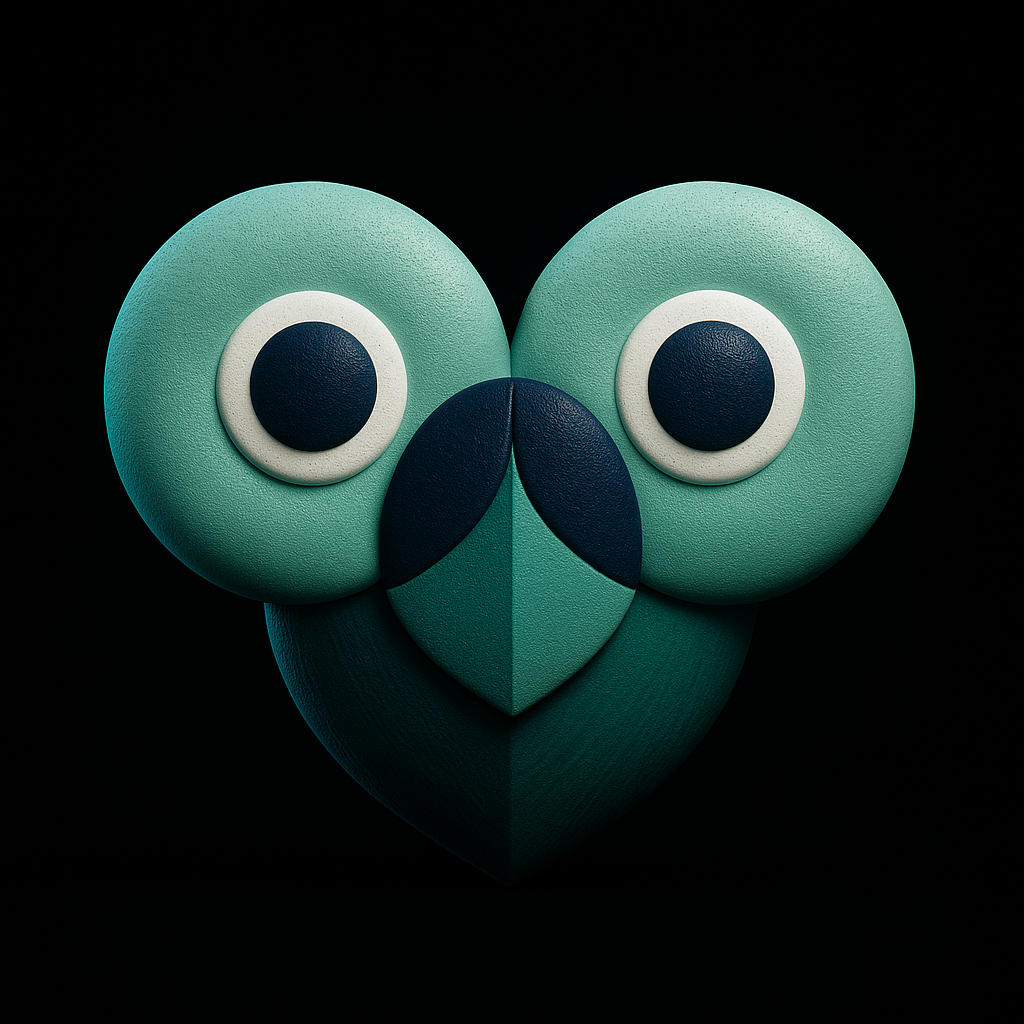
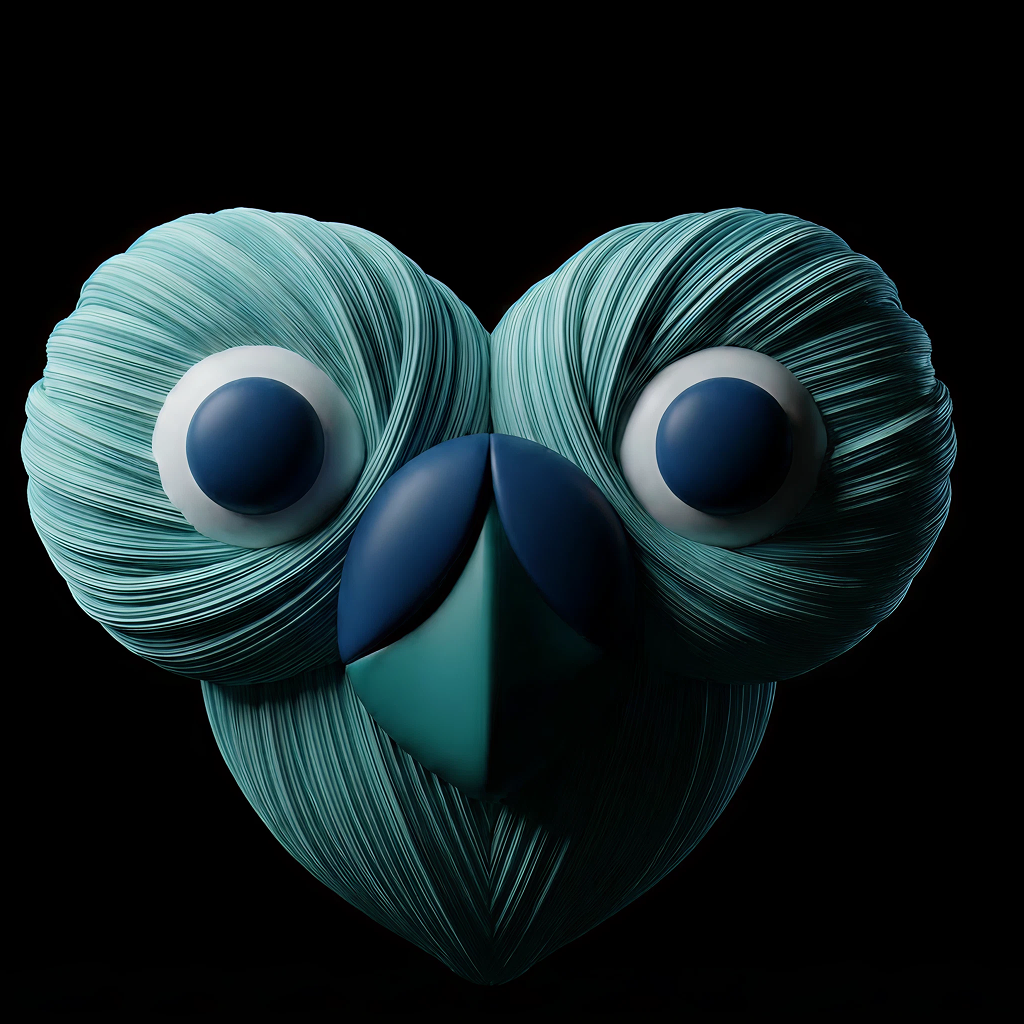
style: improved assets

diff --git a/src/data/projects.ts b/src/data/projects.ts
@@ -28,6 +28,9 @@ export const PROJECTS: Project[] = [
     tagline: "AI-Powered Relationship Intelligence Platform",
     kind: "Product",
     gradient: "from-emerald-500 to-teal-600",
+    imageSrc: "/grove-3d-render-1.png",
+    logoSrc: "/logo-grove.png",
+
     href: "https://grove-connections.lovable.app/landing",
     caseStudy: {
       summary:
@@ -108,7 +111,7 @@ export const PROJECTS: Project[] = [
         {
           title: "Natural Language Meal Parsing",
           description:
-            "Users needed to log meals in plain language (e.g. \"a bowl of rice with grilled chicken and a side salad\") and get accurate calorie breakdowns. The AI had to handle ambiguous quantities, regional food names, and compound dishes without frustrating the user with follow-up questions.",
+            'Users needed to log meals in plain language (e.g. "a bowl of rice with grilled chicken and a side salad") and get accurate calorie breakdowns. The AI had to handle ambiguous quantities, regional food names, and compound dishes without frustrating the user with follow-up questions.',
           approach:
             "Designed a multi-pass parsing pipeline: the first pass extracts individual food items and inferred portions using an LLM prompt tuned with few-shot examples, and the second pass maps each item to a nutrition database for macronutrient values. A confidence score determines whether to auto-log or ask the user for clarification, keeping the interaction smooth for common cases.",
         },
@@ -143,7 +146,7 @@ export const PROJECTS: Project[] = [
         {
           title: "AI Tool Calls for Database Manipulation",
           description:
-            "Users needed to create, edit, and delete meal records and profile data entirely through natural conversation. Telling the AI \"actually that was a small coffee, not a large\" or \"log a banana for yesterday's breakfast\" required the model to understand intent and translate it into precise database operations — without exposing raw CRUD endpoints to the user.",
+            'Users needed to create, edit, and delete meal records and profile data entirely through natural conversation. Telling the AI "actually that was a small coffee, not a large" or "log a banana for yesterday\'s breakfast" required the model to understand intent and translate it into precise database operations — without exposing raw CRUD endpoints to the user.',
           approach:
             "Leveraged the OpenAI function-calling (tool use) API to define a set of structured tools the LLM can invoke: create_meal_record, update_meal_record, delete_meal_record, and update_user_profile. Each tool has a strict JSON schema that the model must satisfy. When the model decides an action is needed, it emits a tool call with the structured parameters; the backend validates the payload, enforces ownership checks, executes the database operation, and returns the result to the model so it can confirm the change to the user in natural language. This keeps the AI in the driver's seat for UX while the backend retains full control over data integrity and authorization.",
         },
@@ -190,7 +193,7 @@ export const PROJECTS: Project[] = [
           description:
             "The non-profit had volunteers across multiple time zones. Meetings created in one timezone needed to display correctly for everyone, and daylight saving transitions caused edge cases where events would shift by an hour.",
           approach:
-            "Stored all event times in UTC in the database and performed timezone conversion exclusively on the client side using the user's local timezone. For recurring events, the recurrence rule stores the original local time and timezone, and each instance is computed in that timezone before converting to UTC — ensuring that a \"9 AM every Monday\" meeting stays at 9 AM local time even across DST boundaries.",
+            'Stored all event times in UTC in the database and performed timezone conversion exclusively on the client side using the user\'s local timezone. For recurring events, the recurrence rule stores the original local time and timezone, and each instance is computed in that timezone before converting to UTC — ensuring that a "9 AM every Monday" meeting stays at 9 AM local time even across DST boundaries.',
         },
       ],
     },
